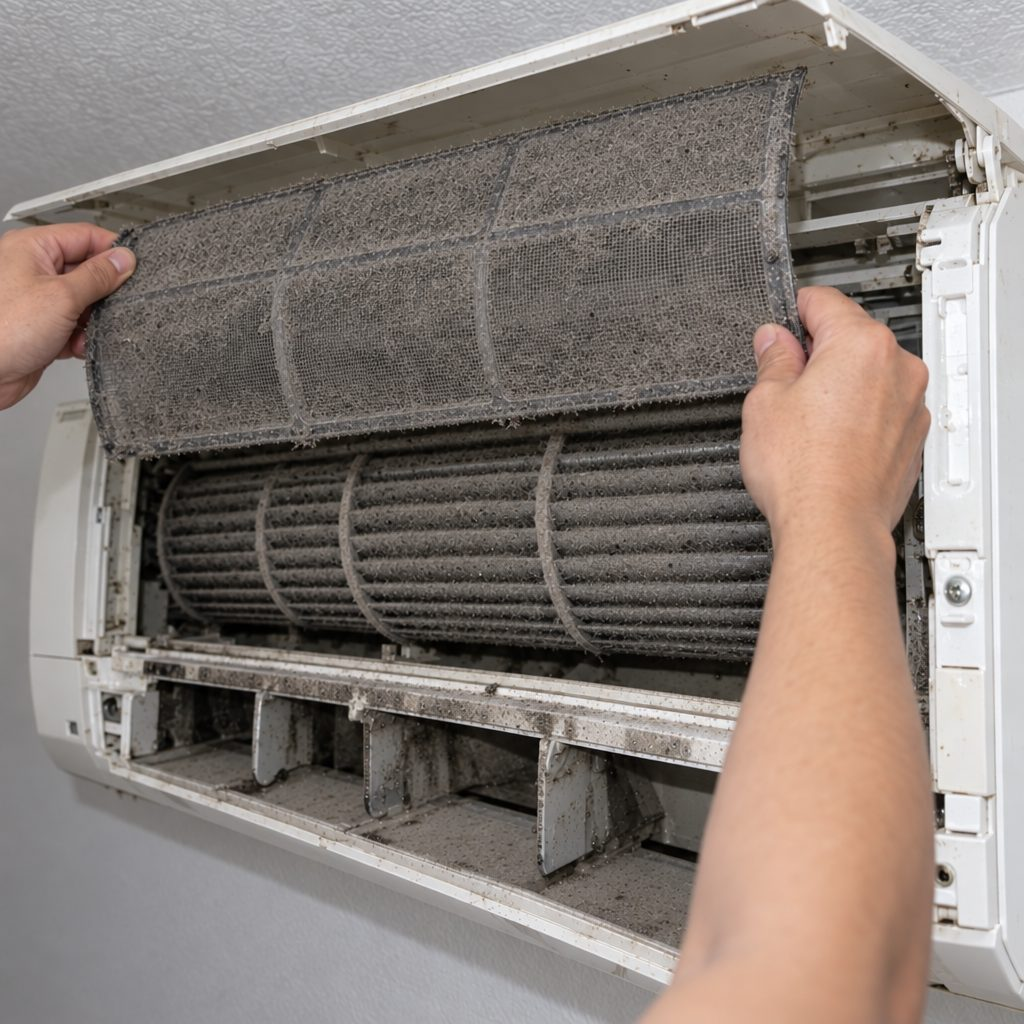
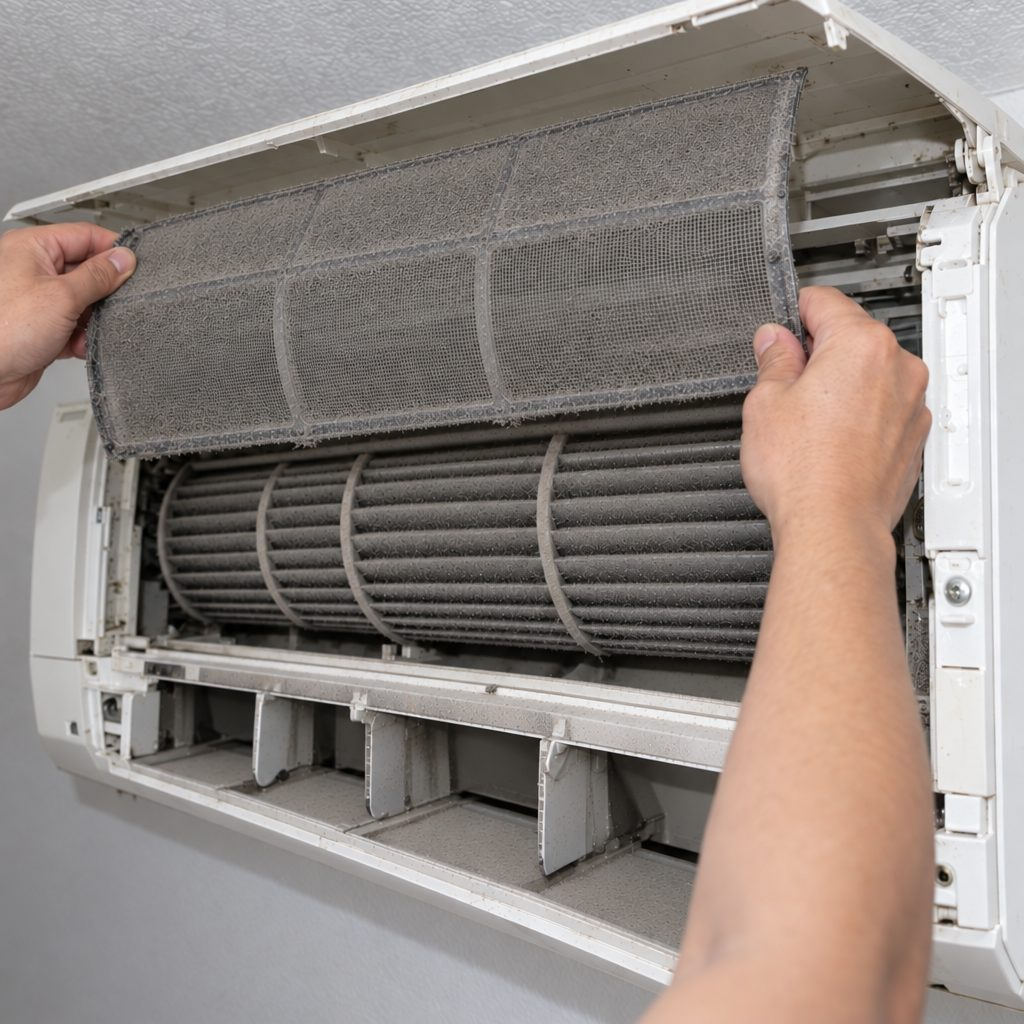
Air sain : saleté plus légère sur les photos avant/après
Filtre et turbine régénérés avec une fine couche de poussière (environ
un an d'utilisation), légendes et note du vault ajustées.

Claude-Session: https://claude.ai/code/session_015KbXe5AVdEWS1p8vDSKDDB

Changed region(s): [[0.0625, 0.0625, 0.7812, 0.9688], [0.875, 0.6562, 0.9062, 0.6875], [0.875, 0.1875, 0.9062, 0.2188]]

diff --git a/sites-nettoyage-clim/f-air-sain.html b/sites-nettoyage-clim/f-air-sain.html
@@ -282,11 +282,11 @@ footer .wrap{display:flex;flex-wrap:wrap;justify-content:space-between;gap:10px 
       <p>Laver les filtres, c'est bien. Mais la poussière passe au travers et se colle au serpentin et à la turbine, là où vous ne pouvez pas aller.</p>
     </div>
     <div class="found">
-      <figure><img src="img/meme-filtre-modere.jpg" alt="Filtre saturé de poussière retiré de la tête murale" loading="lazy"><figcaption><b>Des filtres saturés</b><span>L'air passe mal, l'appareil force et consomme plus.</span></figcaption></figure>
-      <figure><img src="img/meme-turbine.jpg" alt="Turbine couverte de poussière grise avec quelques points de moisissure" loading="lazy"><figcaption><b>Une turbine encrassée</b><span>C'est elle qui souffle l'odeur de renfermé dans la pièce.</span></figcaption></figure>
+      <figure><img src="img/meme-filtre-modere.jpg" alt="Filtre saturé de poussière retiré de la tête murale" loading="lazy"><figcaption><b>Des filtres encrassés</b><span>L'air passe mal, l'appareil force et consomme plus.</span></figcaption></figure>
+      <figure><img src="img/meme-turbine.jpg" alt="Turbine couverte d'une fine couche de poussière grise" loading="lazy"><figcaption><b>Une turbine poussiéreuse</b><span>C'est elle qui souffle l'odeur de renfermé dans la pièce.</span></figcaption></figure>
       <figure><img src="img/meme-apres.jpg" alt="La même turbine et le même serpentin, propres après le nettoyage" loading="lazy"><figcaption><b>Après notre passage</b><span>Serpentin rincé, turbine blanche, bac et drain désinfectés.</span></figcaption></figure>
     </div>
-    <p class="found-note">Exemple typique d'un appareil non entretenu depuis 2 à 3 ans.</p>
+    <p class="found-note">Exemple typique d'un appareil utilisé environ un an sans nettoyage professionnel.</p>
     <div class="benefits">
       <div class="benefit"><div class="ill"><img src="img/ill-air.jpg" alt="Illustration : l'air propre qui sort des volets d'une tête murale" loading="lazy" width="1100" height="733"></div><h3>Un air plus sain</h3><p>Moins de poussière et d'allergènes soufflés dans les chambres et le salon.</p></div>
       <div class="benefit"><div class="ill"><img src="img/ill-serpentin.jpg" alt="Illustration : les ailettes du serpentin et les tubes de cuivre, façade retirée" loading="lazy" width="1100" height="733"></div><h3>Moins d'électricité</h3><p>Un serpentin propre échange mieux la chaleur : l'appareil tourne moins longtemps.</p></div>

diff --git a/sites-nettoyage-clim/Site web Thermo-Propre.md b/sites-nettoyage-clim/Site web Thermo-Propre.md
@@ -29,7 +29,7 @@ Site vitrine pour l'entreprise de nettoyage de climatiseurs muraux et de thermop
 - Pas d'icônes génériques ni d'émojis : remplacés par des illustrations dessinées dans la palette du site
 - Photos réalistes : la tête murale est installée près du plafond, le technicien travaille sur un escabeau
 - La 2e photo du déroulement montre la fin de visite avec la cliente (photos avant/après sur tablette), pas le nettoyage une deuxième fois
-- « Ce qu'on retire » : les trois photos montrent le même appareil, avec une saleté modérée et crédible (2 à 3 ans sans entretien) et une légende honnête. À remplacer par de vraies photos avant/après des premiers clients (avec leur accord)
+- « Ce qu'on retire » : les trois photos montrent le même appareil, avec une saleté légère et crédible (environ un an sans nettoyage professionnel) et une légende honnête. À remplacer par de vraies photos avant/après des premiers clients (avec leur accord)
 
 ## À compléter avant la mise en ligne
 - [ ] Vrais prix (dans le vault) : le site utilise pour l'instant la grille du skill devis-clim, marquée EXEMPLE : 139 / 129 / 119 / 109 $ par appareil ; options +39 $ désinfection, +25 $ anti-moisissure, +25 $ accès difficile, +59 $ unité extérieure ; zone B +30 $ ; TPS + TVQ ; minimum 120 $
